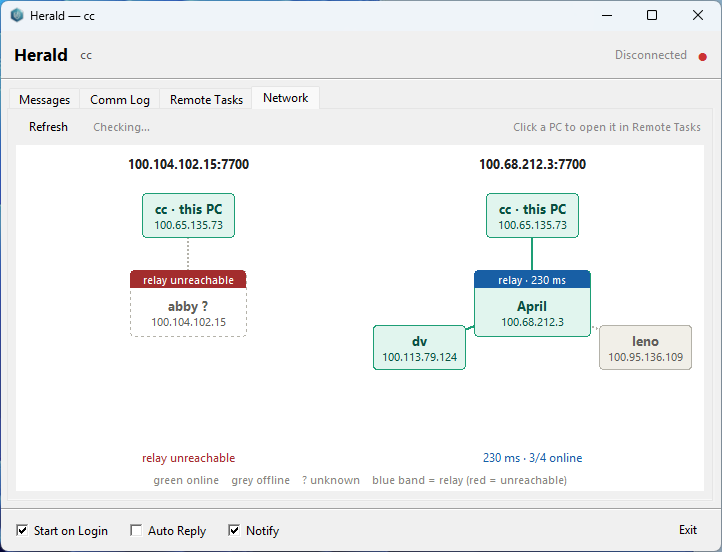
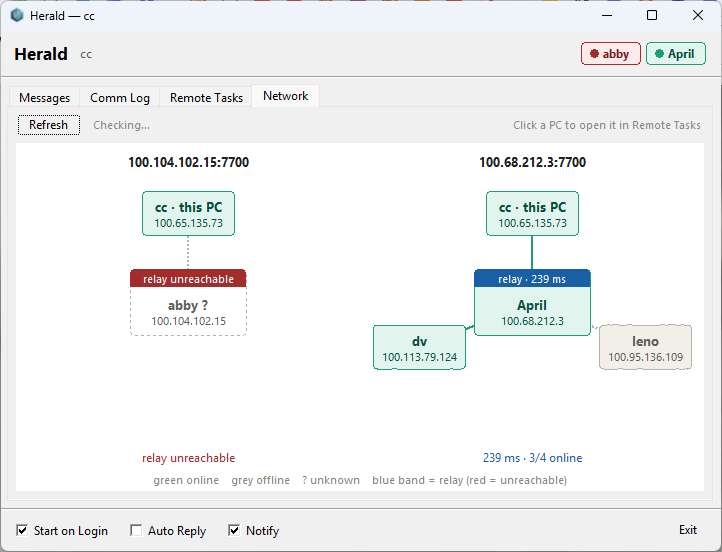
feat(tray): relay pills in the title bar replace the Connected light
One pill per relay, green reachable / red not; the top-level pill follows the tray's own subscription. Relays are probed while the window is open, not only on the Network tab.

diff --git a/herald_tray.py b/herald_tray.py
@@ -122,7 +122,8 @@ def relay_host(net: dict, probe: dict, ips: dict) -> str | None:
 NODE = {"online": ("#E1F5EE", "#1D9E75", "#085041"),
         "offline": ("#F1EFE8", "#B4B2A9", "#5F5E5A"),
         "unknown": ("#FFFFFF", "#B4B2A9", "#5F5E5A")}
-INK, MUTED, RELAY, DOWN = "#222222", "#888780", "#185FA5", "#A32D2D"
+PILL_UP, PILL_DOWN = NODE["online"], ("#FCEBEB", "#A32D2D", "#791F1F")
+INK, MUTED, RELAY, DOWN ="#222222", "#888780", "#185FA5", "#A32D2D"
 
 
 def split_members(net: dict, host_pc: str | None) -> tuple:
@@ -281,10 +282,12 @@ class HeraldWindow:
         self.name_label.pack(side="left", padx=(6, 0))
         self.name_label.bind("<Button-1>", lambda e: self._rename())
 
-        self.status_dot = tk.Label(top, text="●", fg="#aaa", font=("Segoe UI", 14))
-        self.status_dot.pack(side="right")
-        self.status_label = tk.Label(top, text="Connecting…", fg="#888", font=("Segoe UI", 9))
-        self.status_label.pack(side="right", padx=(0, 4))
+        # one pill per relay: green reachable, red not, grey not checked yet
+        self._subscribed = None   # the tray's own link to the top-level relay; None while connecting
+        self.pills = tk.Canvas(top, height=24, width=1, bg=top.cget("bg"), highlightthickness=0)
+        self.pills.pack(side="right")
+        self.pill_tip = tk.Label(top, text="", fg="#888", font=("Segoe UI", 8))
+        self.pill_tip.pack(side="right", padx=(0, 6))
 
         ttk.Separator(self.root, orient="horizontal").pack(fill="x")
 
@@ -507,10 +510,11 @@ class HeraldWindow:
         self.nb.bind("<<NotebookTabChanged>>",
                      lambda e: self._refresh_network() if self.nb.select() == str(frame) else None)
         self.root.after(15000, self._net_tick)
+        self._draw_pills()
 
     def _net_tick(self):
-        # ponytail: probes only while the Network tab is on screen, so a tray sitting hidden costs nothing
-        if self.root.state() == "normal" and self.nb.select() == str(self._net_frame):
+        # ponytail: probes only while the window is on screen (header pills + Network tab), so a hidden tray costs nothing
+        if self.root.state() == "normal":
             self._refresh_network()
         self.root.after(15000, self._net_tick)
 
@@ -627,6 +631,7 @@ class HeraldWindow:
                     self._net_probes = event["nets"]
                     self._net_status.config(text=f"Updated {time.strftime('%H:%M:%S')}")
                     self._draw_network()
+                    self._draw_pills()
         except queue.Empty:
             pass
         self._tail_comm_log()
@@ -800,17 +805,38 @@ class HeraldWindow:
         self.root.deiconify()
         self.root.lift()
         self.root.focus_force()
+        self._refresh_network()
 
     def hide(self):
         self.root.withdraw()
 
     def set_status(self, connected: bool):
-        if connected:
-            self.status_dot.config(fg="#22bb44")
-            self.status_label.config(text="Connected")
-        else:
-            self.status_dot.config(fg="#cc3333")
-            self.status_label.config(text="Disconnected")
+        self._subscribed = connected
+        self._draw_pills()
+
+    def _draw_pills(self):
+        c = self.pills
+        c.delete("all")
+        ips = self.cfg.get("ips", {})
+        probes = self._net_probes or [(n, {"up": None, "ms": None, "host": None}) for n in networks(self.cfg)]
+        x = 2
+        for i, (net, probe) in enumerate(probes):
+            # the top-level pill follows the tray's own subscription: green there means commands can reach this PC
+            up = self._subscribed if i == 0 else probe["up"]
+            fill, edge, ink = (PILL_UP if up else PILL_DOWN) if up is not None else NODE["unknown"]
+            host = net["server_url"].split("//")[-1]
+            label = relay_host(net, probe, ips) or host.split(":")[0]
+            t = c.create_text(x + 22, 12, text=label, anchor="w", fill=ink, font=("Segoe UI", 9, "bold"))
+            x1 = c.bbox(t)[2] + 10
+            pill = round_rect(c, x, 1, x1, 23, 11, fill=fill, outline=edge)
+            dot = c.create_oval(x + 9, 8, x + 17, 16, fill=edge, outline="")
+            c.tag_raise(t)
+            tip = host + (f" · {probe['ms']} ms" if probe.get("ms") else " · unreachable" if up is False else "")
+            for item in (pill, dot, t):
+                c.tag_bind(item, "<Enter>", lambda e, s=tip: self.pill_tip.config(text=s))
+                c.tag_bind(item, "<Leave>", lambda e: self.pill_tip.config(text=""))
+            x = x1 + 6
+        c.config(width=x)
 
     def run(self):
         self.root.mainloop()

diff --git a/docs/system-tray-ui.md b/docs/system-tray-ui.md
@@ -35,7 +35,11 @@ Below each diagram: the round-trip time to the relay and how many of its peers a
 - **Click a PC** to jump to Remote Tasks with that peer selected.
 - The tab refreshes when you open it, then every 15 seconds while it stays open. Nothing is polled while the window is hidden.
 - Peers come from each network's `peers` list in `config.json`. A PC that is connected but missing from that list will not be drawn.
-- This PC's tray subscribes only to the **top-level** relay: peers in other networks cannot send commands to it, but it can still send to them. The diagram therefore shows it online in every network whose relay answers. The **Connected / Disconnected** light in the title bar is the top-level subscription alone.
+- This PC's tray subscribes only to the **top-level** relay: peers in other networks cannot send commands to it, but it can still send to them. The diagram therefore shows it online in every network whose relay answers.
+
+### Relay pills in the title bar
+
+One pill per relay, named after the PC it runs on: **green** reachable, **red** not, grey before the first check. The first pill (the top-level relay) follows the tray's own subscription, so green there means other PCs can send commands to this one. Hover a pill for the relay address and round-trip time. Pills refresh every 15 seconds while the window is open.
 
 ### Showing IP addresses
 
